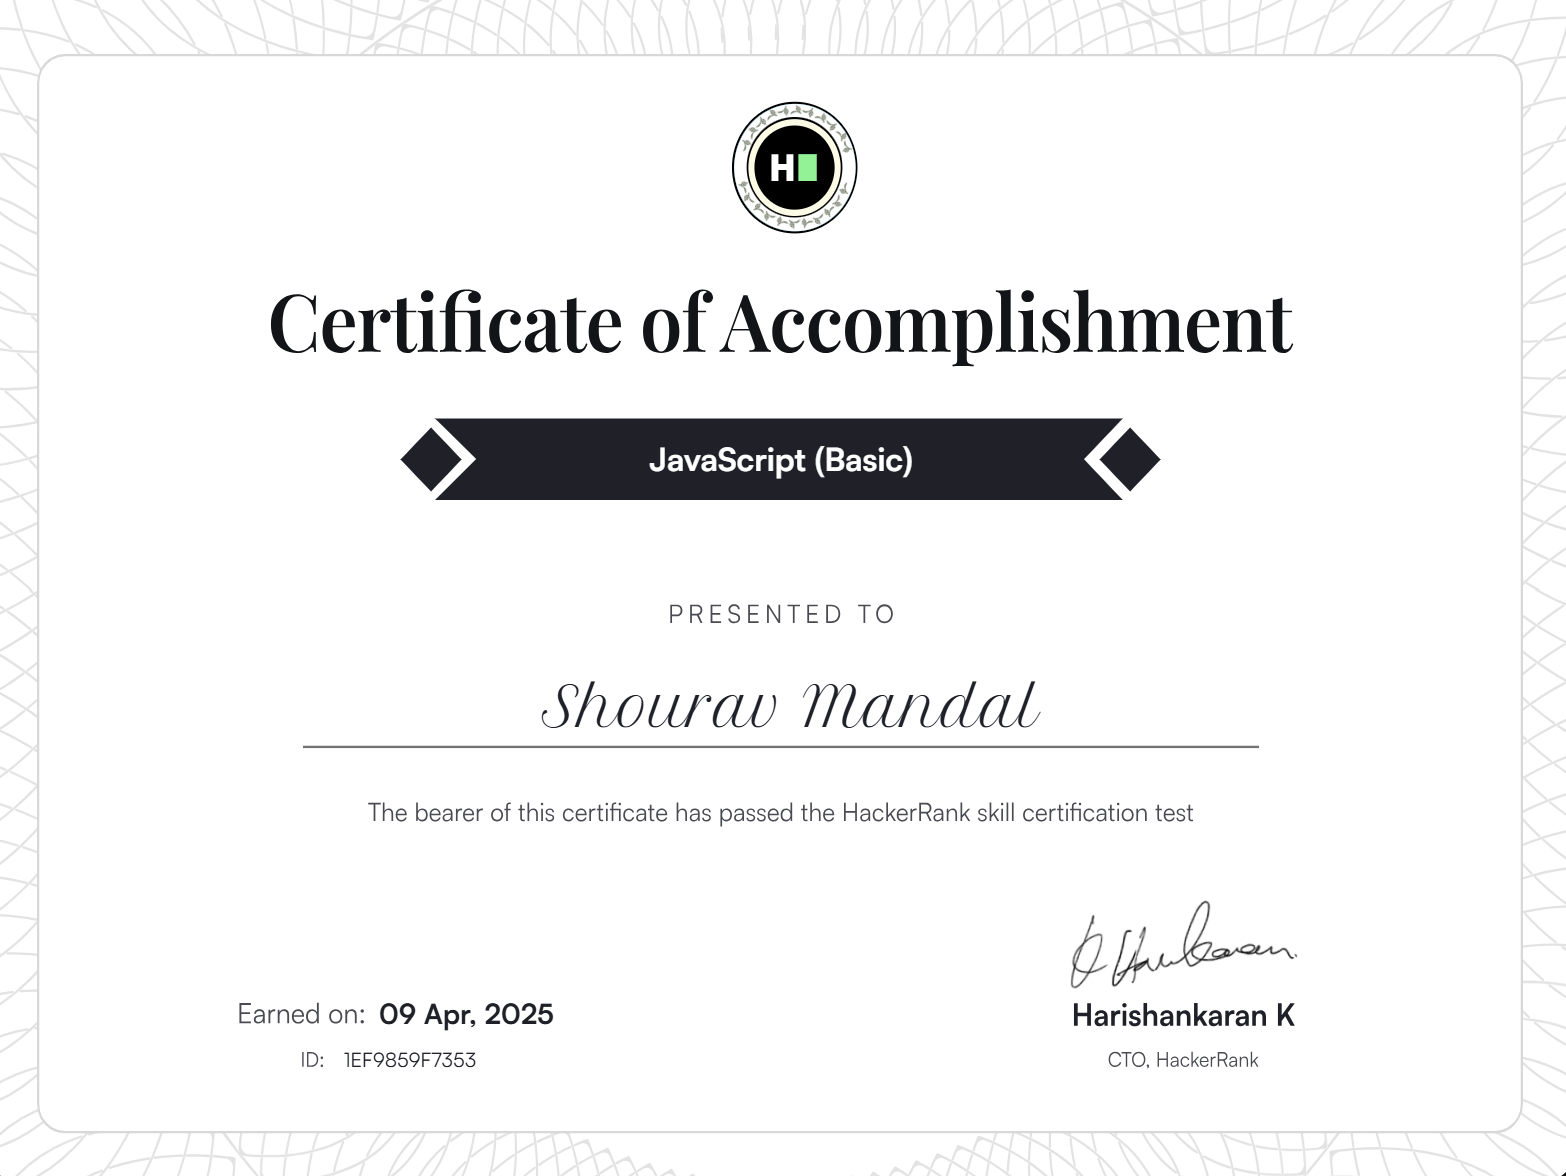
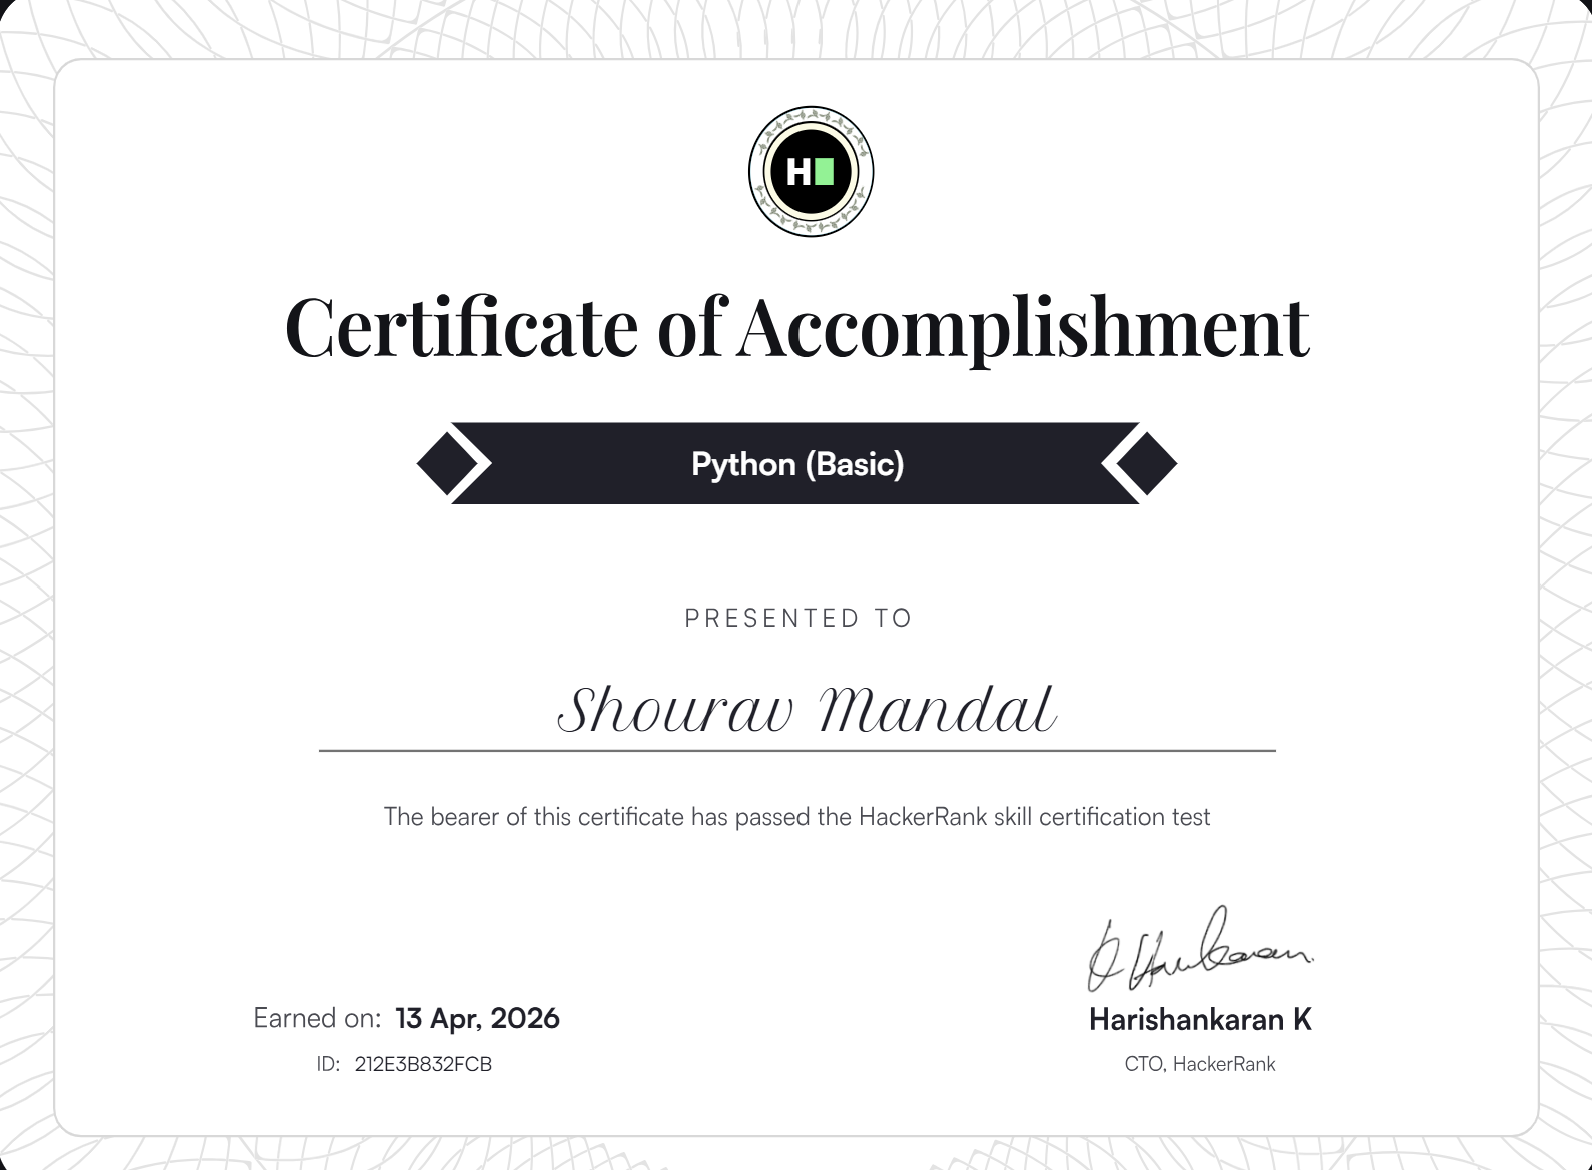
Add Stripe online payment

diff --git a/index.html b/index.html
@@ -623,7 +623,7 @@
               <a class="cert-view-btn" href="https://www.hackerrank.com/certificates/90de9b4bc6a2" target="_blank">Verify ↗</a>
             </div>
 
-            <!-- HackerRank JavaScript -->
+            <!-- HackerRank Python -->
             <div class="cert-skill-card">
               <button class="cert-thumb" type="button" data-modal-img="./assets/javascript.png" style="all:unset;cursor:pointer;display:block;border-radius:8px;overflow:hidden;position:relative;">
                 <img src="./assets/javascript.png" alt="JavaScript Basic Certificate" style="width:100%;display:block;border-radius:8px;" />
@@ -631,11 +631,11 @@
               </button>
               <div class="cert-skill-info" style="margin-top:0.6rem;">
                 <p class="cert-card-platform">HackerRank</p>
-                <h4>JavaScript</h4>
+                <h4>Python</h4>
                 <p>Basic Certification — Apr 2025</p>
                 <span class="cert-level">Skill Verified</span>
               </div>
-              <a class="cert-view-btn" href="https://www.hackerrank.com/certificates/1ef9859f7353" target="_blank">Verify ↗</a>
+              <a class="cert-view-btn" href="https://www.hackerrank.com/certificates/iframe/212e3b832fcb" target="_blank">Verify ↗</a>
             </div>
 
             <!-- HackerRank SQL -->
